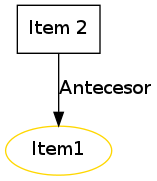
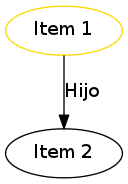
Modificado Test Modificado grafico de calculo de impacto

diff --git a/projectmanager/test_modelo.py b/projectmanager/test_modelo.py
@@ -1,31 +1,32 @@
 # -*- coding: utf-8 -*-
-"""Test suite for the TG app's models"""
+"""Test suite for the TG app's models
+ python -m unittest test_modelo.TestRol"""
 from nose.tools import eq_
+import unittest
 
 from projectmanager import model
 from projectmanager.model.roles import Rol
 from projectmanager.model.roles import Usuario
 from projectmanager.model.roles import Permisos
 
-class TestRol(Rol):
+class TestRol(unittest.TestCase):
     """Unit test case for the ``Rol`` model."""
     klass = model.Rol
-    attrs = dict(
-        nom_rol = u"test_rol",
-        des_rol = u"Descripcion de prueba",
-        id_tipo_rol=u"uno"
-        )
+    nom_rol = u"test_rol"
+    des_rol = u"Descripcion de prueba"
+    id_tipo_rol=1
+    
     def test_obj_creation_nombre(self):
         """El constructor debe setear el nombre correctamente"""
-        eq_(self.obj.nom_rol, u"test_rol")
+        eq_(self.nom_rol, u"test_rol")
         
     def test_obj_creation_descripcion(self):
         """El constructor debe setear la descripcion correctamente"""
-        eq_(self.obj.des_rol, u"Descripcion de prueba")
+        eq_(self.des_rol, u"Descripcion de prueba")
         
     def test_obj_creation_tipo(self):
         """El constructor debe setear el tipo correctamente"""
-        eq_(self.obj.id_tipo_rol, u"uno")
+        eq_(self.id_tipo_rol, u"uno")
         
 
 

diff --git a/projectmanager/model/entities.py b/projectmanager/model/entities.py
@@ -128,7 +128,7 @@ class VersionItem(DeclarativeBase):
     __tablename__ = 'VERSION_ITEM'
     
     def initGraph(self,itemVersion):
-        self.impacto_graph = graph()
+        self.impacto_graph = digraph()
         self.impacto_graph.add_node(itemVersion.id_version_item,
         [('label',itemVersion.item.nom_item + "\n" + str(itemVersion.peso)),
         ('color','gold'),('root','true')])
@@ -268,7 +268,7 @@ class VersionItem(DeclarativeBase):
                 if not self.impacto_graph.\
                 has_edge((unItem.id_version_item,idVersion)):
                     self.impacto_graph.\
-                        add_edge((unItem.id_version_item,idVersion),
+                        add_edge((idVersion,unItem.id_version_item),
                                  label='Antecesor')
         
         return antecesores
